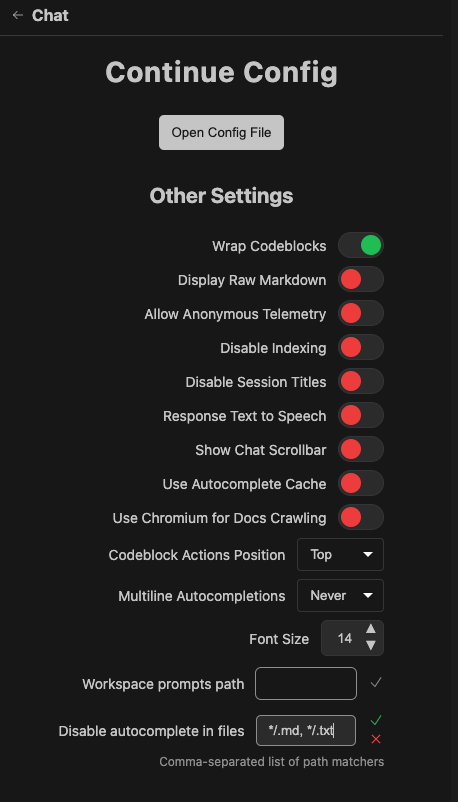
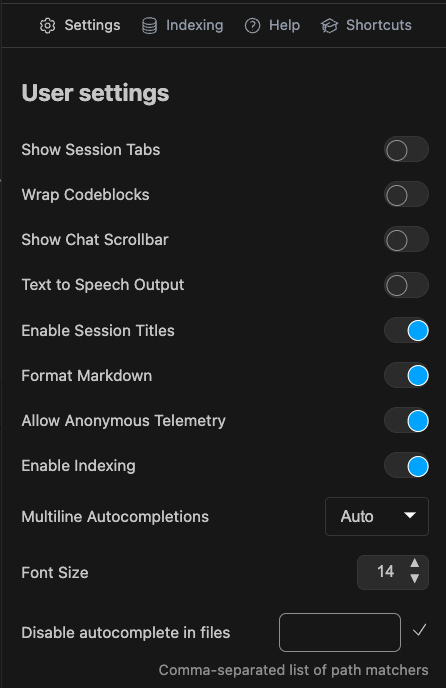
update user settings page

diff --git a/gui/src/pages/config/UserSettingsForm.tsx b/gui/src/pages/config/UserSettingsForm.tsx
@@ -146,7 +146,7 @@ export function UserSettingsForm() {
                       readResponseTTS: !readResponseTTS,
                     })
                   }
-                  text="Text to Speech Output"
+                  text="Text-to-Speech Output"
                 />
 
                 {/* <ToggleSwitch
@@ -208,6 +208,20 @@ export function UserSettingsForm() {
                   /> */}
 
                 <label className="flex items-center justify-between gap-3">
+                  <span className="text-left">Font Size</span>
+                  <NumberInput
+                    value={fontSize}
+                    onChange={(val) =>
+                      handleUpdate({
+                        fontSize: val,
+                      })
+                    }
+                    min={7}
+                    max={50}
+                  />
+                </label>
+
+                <label className="flex items-center justify-between gap-3">
                   <span className="line-clamp-1 text-left">
                     Multiline Autocompletions
                   </span>
@@ -226,20 +240,6 @@ export function UserSettingsForm() {
                     <option value="always">Always</option>
                     <option value="never">Never</option>
                   </Select>
-                </label>
-
-                <label className="flex items-center justify-between gap-3">
-                  <span className="text-left">Font Size</span>
-                  <NumberInput
-                    value={fontSize}
-                    onChange={(val) =>
-                      handleUpdate({
-                        fontSize: val,
-                      })
-                    }
-                    min={7}
-                    max={50}
-                  />
                 </label>
 
                 <form

diff --git a/docs/sidebars.js b/docs/sidebars.js
@@ -128,7 +128,6 @@ const sidebars = {
         },
       ],
     },
-    "customize/settings",
     {
       type: "link",
       label: "Reference",

diff --git a/docs/docs/customize/deep-dives/settings.md b/docs/docs/customize/deep-dives/settings.md
@@ -1,0 +1,34 @@
+---
+title: User Settings Page
+description: Reference for Adjusting User-Specific Settings
+keywords: [config, settings, configuration, customize, customization, sidebar]
+---
+
+# The User Settings Page
+
+The **User Settings page** can be accessed by clicking the gear icon in the header of the Continue sidebar.
+
+![slash-commands](/img/header-buttons.png)
+
+Which takes you to this page:
+
+![User Settings Page](/img/settings-page.png)
+
+Below that, the following settings which are not part of a configuration file are available:
+
+- `Show Session Tabs`: If on, displays tabs above the chat as an alternative way to organize and access your sessions. Off by default
+- `Wrap Codeblocks`: If on, enables text wrapping in code blocks. Off by default.
+- `Show Chat Scrollbar`: If on, enables a scrollbar in the chat window. Off by default.
+- `Text-to-Speech Output`: If on, reads LLM responses aloud with TTS. Off by default.
+- `Enable Session Titles`: If on, generates summary titles for each chat session after the first message, using the current Chat model. On by default.
+- `Format Markdown`: If off, shows responses as raw text. On by default.
+- `Allow Anonymous Telemetry`: If on, allows Continue to send anonymous telemetry. **On** by default.
+- `Enable Indexing`: Enables indexing of the codebase for the @codebase and @code context providers. **On** by default.
+- `Font Size`: Specifies base font size for UI elements
+- `Multiline Autocompletions`: Controls multiline completions for autocomplete. Can be set to `always`, `never`, or `auto`. Defaults to `auto`
+- `Disable autocomplete in files`: List of comma-separated glob pattern to disable autocomplete in matching files. E.g., "\_/.md, \*/.txt"
+
+<!-- - `Use autocomplete cache`: If on, caches completions. -->
+<!-- - `Use Chromium for Docs Crawling`: Use Chromium to crawl docs locally. Useful if the default Cheerio crawler fails on sites that require JavaScript rendering. Downloads and installs Chromium to ~/.continue/.utils. Off by default -->
+<!-- - `Codeblock Actions Position`: Sets the position for the actions that show when hovering over codeblocks. Defaults to `top` -->
+<!-- - `Workspace prompts path`: Where to find Prompt Files in a workspace - replaces the default .continue/prompts -->

diff --git a/docs/docs/reference.md b/docs/docs/reference.md
@@ -477,28 +477,3 @@ models:
     roles:
       - autocomplete
 ```
-
-### Fully deprecated settings
-
-Some deprecated `config.json` settings are no longer stored in config and have been moved to be editable through the [User Settings Page](./customize/settings.md). If found in `config.json`, they will be migrated to the [User Settings Page](./customize/settings.md) and removed from `config.json`.
-
-- `allowAnonymousTelemetry`: This value will be migrated to the safest merged value (`false` if either are `false`).
-- `promptPath`: This value will override during migration.
-- `disableIndexing`: This value will be migrated to the safest merged value (`true` if either are `true`).
-- `disableSessionTitles`/`ui.getChatTitles`: This value will be migrated to the safest merged value (`true` if either are `true`). `getChatTitles` takes precedence if set to false
-- `tabAutocompleteOptions`
-  - `useCache`: This value will override during migration.
-  - `disableInFiles`: This value will be migrated to the safest merged value (arrays of file matches merged/deduplicated)
-  - `multilineCompletions`: This value will override during migration.
-- `experimental`
-  - `useChromiumForDocsCrawling`: This value will override during migration.
-  - `readResponseTTS`: This value will override during migration.
-- `ui` - all will override during migration
-
-  - `codeBlockToolbarPosition`
-  - `fontSize`
-  - `codeWrap`
-  - `displayRawMarkdown`
-  - `showChatScrollbar`
-
-  See [User Settings Page](./customize/settings.md) for more information about each option.

diff --git a/docs/docs/json-reference.md b/docs/docs/json-reference.md
@@ -405,7 +405,7 @@ Example
 
 ### Fully deprecated settings
 
-Some deprecated `config.json` settings are no longer stored in config and have been moved to be editable through the [User Settings Page](./customize/settings.md). If found in `config.json`, they will be migrated to the [User Settings Page](./customize/settings.md) and removed from `config.json`.
+Some deprecated `config.json` settings are no longer stored in config and have been moved to be editable through the [User Settings Page](./customize/deep-dives/settings.md). If found in `config.json`, they will be auto-migrated to User Settings and removed from `config.json`.
 
 - `allowAnonymousTelemetry`: This value will be migrated to the safest merged value (`false` if either are `false`).
 - `promptPath`: This value will override during migration.
@@ -426,4 +426,4 @@ Some deprecated `config.json` settings are no longer stored in config and have b
   - `displayRawMarkdown`
   - `showChatScrollbar`
 
-  See [User Settings Page](./customize/settings.md) for more information about each option.
+  See [User Settings Page](./customize/deep-dives/settings.md) for more information about each option.

diff --git a/docs/docs/autocomplete/how-to-customize.md b/docs/docs/autocomplete/how-to-customize.md
@@ -5,6 +5,6 @@ keywords: [customize]
 sidebar_position: 5
 ---
 
-Continue offers a handful of settings to customize autocomplete behavior. For the most part, these options can be found in the [User Settings Page](../customize/settings.md).
+Continue offers a handful of settings to customize autocomplete behavior. Visit the [User Settings Page](../customize/deep-dives/settings.md) to manage these settings.
 
 For a comprehensive guide on all configuration options and their impacts, see the [Autocomplete deep dive](../customize/deep-dives/autocomplete.mdx).

diff --git a/docs/docs/customize/tutorials/running-continue-without-internet.md b/docs/docs/customize/tutorials/running-continue-without-internet.md
@@ -7,6 +7,6 @@ keywords: [no internet, air-gapped, local model]
 Continue can be run even on an air-gapped computer if you use a local model. Only a few adjustments are required for this to work.
 
 1. Download the latest .vsix file from the [Open VSX Registry](https://open-vsx.org/extension/Continue/continue) and [install it to VS Code](https://code.visualstudio.com/docs/editor/extension-marketplace#_install-from-a-vsix).
-2. Open the [User Settings Page](../settings.md) and turn off "Allow Anonymous Telemetry". This will stop Continue from attempting requests to PostHog for [anonymous telemetry](../../telemetry.md).
+2. Open the [User Settings Page](../deep-dives/settings.md) and turn off "Allow Anonymous Telemetry". This will stop Continue from attempting requests to PostHog for [anonymous telemetry](../../telemetry.md).
 3. Also in `config.json`, set the default model to a local model. You can available options [here](../model-providers/).
 4. Restart VS Code to ensure that the changes to `config.json` or `config.yaml` take effect.

diff --git a/docs/docs/telemetry.md b/docs/docs/telemetry.md
@@ -26,6 +26,6 @@ The following usage information is collected and reported:
 
 ## How to Opt Out
 
-You can disable anonymous telemetry by visiting the [User Settings Page](./customize/settings.md) and toggling "Allow Anonymous Telemetry" off.
+You can disable anonymous telemetry by visiting the [User Settings Page](./customize/deep-dives/settings.md) and toggling "Allow Anonymous Telemetry" off.
 
 Alternatively in VS Code, you can disable telemetry through your VS Code settings by unchecking the "Continue: Telemetry Enabled" box (this will override the Settings Page settings). VS Code settings can be accessed with `File` > `Preferences` > `Settings` (or use the keyboard shortcut <kbd>ctrl</kbd> + <kbd>,</kbd> on Windows/Linux or <kbd>cmd</kbd> + <kbd>,</kbd> on macOS).

diff --git a/docs/docs/yaml-migration.md b/docs/docs/yaml-migration.md
@@ -327,7 +327,7 @@ mcpServers:
 
 ## Deprecated configuration options
 
-Some deprecated `config.json` settings are no longer stored in config and have been moved to be editable through the [User Settings Page](./customize/settings.md) (Gear Icon). If found in `config.json`, they will be migrated to the [User Settings Page](./customize/settings.md) and removed from `config.json`.
+Some deprecated `config.json` settings are no longer stored in config and have been moved to be editable through the [User Settings Page](./customize/deep-dives/settings.md) (Gear Icon). If found in `config.json`, they will be auto-migrated to User Settings and removed from `config.json`.
 
 See the [JSON Config Reference](./json-reference#fully-deprecated-settings) for more information on fully deprecated options.
 